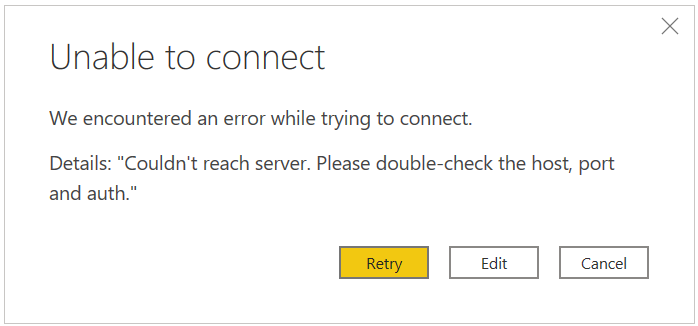
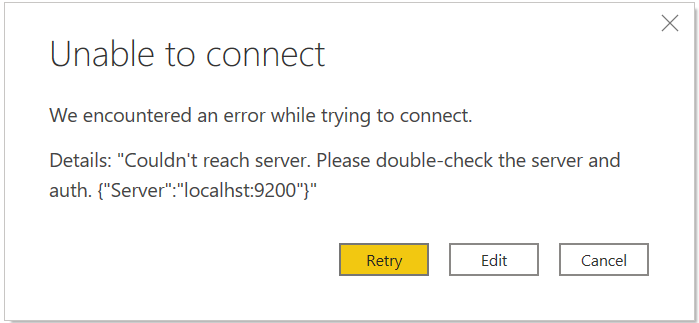
changes required for using to Power BI Service with Open Distro For Elasticsearch (#669)
* pbi connector

* update names

* - add mez file
- add docs

* nit

* nit

* image resize

* resize image

* remove extra lines

* nit

* update mez file

* rename connector

* rename mez file

* - add basic & aws auth
- add unit test
- add errors
- enable direct query

* add connector

* update doc

* add ssl for auth

* update docs for errors

* - remove sqlgetinfo & sqlcapabilities values from connector

* adding EncryptedConnectionString

* add data type for columns

* add alternate column size

* reverting changes in catalog test

* nit

* revert changes for column size validation

* address PR comments

* Update SQL_GROUP_BY value for fixing query folding issue

* removing AstVisitor for resolving query folding issue with data type boolean

* fix parameter binding issue

* simplify changes

* update user doc for pbi

* fix query folding issue while applying filter

* change literal prefix & suffix value

* add user doc for using Power BI Service

* resize image

* - add server instead of host & port for Power BI Service
- update user docs

* resize image

* resize image

* resize image

* update connector file

* update docs for aws auth credentials

* fix typo

diff --git a/sql-odbc/docs/user/power_bi_service_support.md b/sql-odbc/docs/user/power_bi_service_support.md
@@ -1,0 +1,82 @@
+#  Connecting Open Distro For ElasticSearch to Microsoft Power BI Service
+
+## Setup
+* Download and Install [On-premises data gateway](https://docs.microsoft.com/en-us/data-integration/gateway/service-gateway-install)
+* Change the path for custom data connector folder in On-premises data gateway so that the gateway can find the custom connector.
+> NOTE: Ensure the gateway service account (**PBIEgwService**) has permissions to access the custom connector folder. Alternatively, you can copy connector file to `C:\Windows\ServiceProfiles\PBIEgwService\Documents\Power BI Desktop\Custom Connectors\`.
+
+<img src="img/pbi_gateway_connector_path.png" width=500>
+
+* Verify the status of data gateway is ready to be used.
+
+<img src="img/pbi_gateway_status.png" width=500>
+
+* Login to Power BI Service.
+* Click on **Setting** > **Manage Gateway**.
+
+<img src="img/pbi_service_setting.png" width=400>
+
+* Select **Allow user's custom data connectors to refresh through this gateway cluster(preview)**. Click on **Apply**.
+
+<img src="img/pbi_service_cluster_setting.png">
+
+* Click on **Add data sources to use the gateway**.
+* Select Data Source Type as **Open Distro For Elasticsearch**.
+* Enter Data Source Name and Server values.
+* Select required **Authentication Method**. Select **Anonymous** for auth **NONE**.
+For **AWS_SIGV4**, select **Key** and set aws access credentials for user **PBIEgwService** at path `C:\Windows\ServiceProfiles\PBIEgwService\.aws\`
+
+* Select Encryption mode for connection.
+* Click on **Add**.
+
+<img src="img/pbi_service_data_source.png" width=650>
+
+* You will get a **Connection Successful** message.
+
+<img src="img/pbi_service_data_source_success.png" width=650>
+
+
+## Publish Report
+
+* Follow [instructions](./power_bi_support.md) to create graph using Open Disto For Elasticsearch Data connector.
+* Click on **Publish** to publish the report on Power BI service.
+
+<img src="img/pbi_publish_report.png">
+
+* Select destination and click on **Select**.
+
+<img src="img/pbi_select_workspace.png" width=400>
+
+* You will get a success message when report is published.
+
+<img src="img/pbi_publish_status.png" width=400>
+
+* Click on **Open '%report name%' in Power BI** to open published report in Power BI service.
+
+## Modify report using Power BI Service
+
+* Click on **Edit report** to modfify report.
+
+<img src="img/pbi_service_edit_reoprt.png">
+
+* Use **Filters**,**Visualizations** and **Fields** to modify report.
+
+<img src="img/pbi_service_modified_report.png">
+
+## Dataset Scheduled Refresh
+
+* Click on **Settings** > **Datasets**.
+* Select required Gateway and click on **Apply**.
+
+<img src="img/pbi_service_dataset_gateway.png" width=800>
+
+* Turn on Keep your data up to date option.
+* Select refresh frequency and timezone.
+* Add email for failure notifications if required.
+* Click on **Apply**.
+
+<img src="img/pbi_service_dataset_refresh.png" width=550>
+
+* You can also check history by clicking on **Refresh history**.
+
+<img src="img/pbi_service_dataset_refresh_history.png" width=550>

diff --git a/sql-odbc/docs/user/power_bi_support.md b/sql-odbc/docs/user/power_bi_support.md
@@ -33,7 +33,7 @@
 
 <img src="img/pbi_third_party_warning.png" width="500">
 
-* Enter host and port values. Click on **OK**.
+* Enter server value. Click on **OK**.
 
 <img src="img/pbi_connection_string_options.png" width="500">
 
